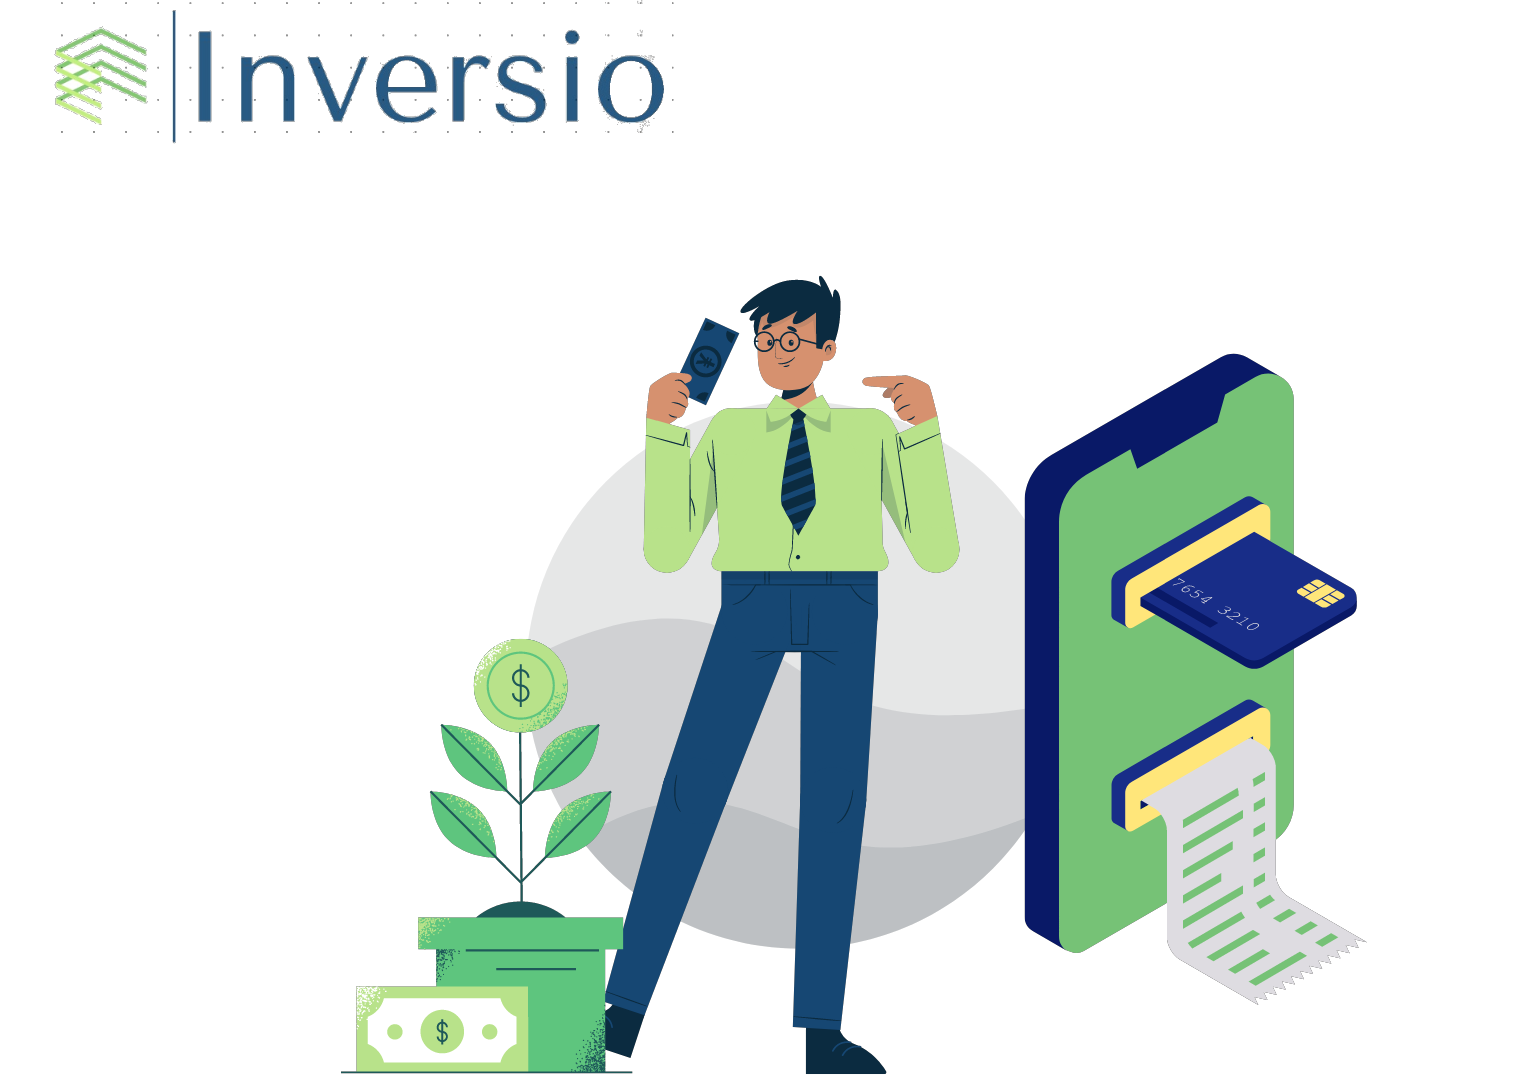
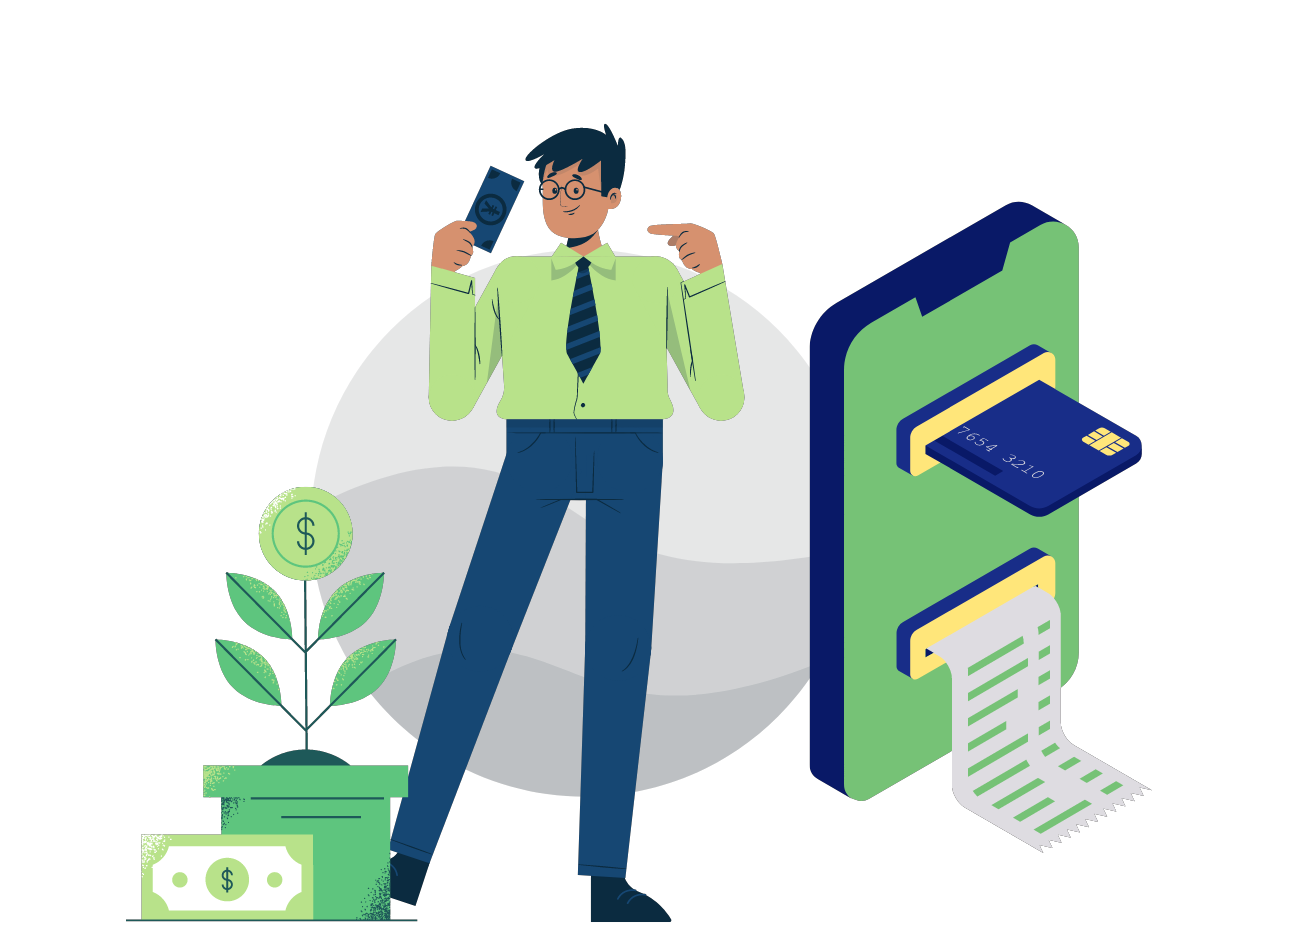
Correccion validacion

diff --git a/menuprincipal.html b/menuprincipal.html
@@ -90,7 +90,7 @@
                 <p>Dinero disponible:</p>
                 <div class="dinero">
                     <script src="https://cdnjs.cloudflare.com/ajax/libs/jquery/3.3.1/jquery.min.js"></script>
-                    <input id=elpassword type=password class="dineroVer" value=$00000000 placeholder=password />
+                    <input id=elpassword type=password class="dineroVer" value=$00000000 placeholder=password readonly/>
                     <svg id=clickme width=28 height=25 xmlns="http://www.w3.org/2000/svg" viewBox="0 0 576 512"><path d="M569.354 231.631C512.97 135.949 407.81 72 288 72 168.14 72 63.004 135.994 6.646 231.631a47.999 47.999 0 0 0 0 48.739C63.031 376.051 168.19 440 288 440c119.86 0 224.996-63.994 281.354-159.631a47.997 47.997 0 0 0 0-48.738zM288 392c-102.556 0-192.091-54.701-240-136 44.157-74.933 123.677-127.27 216.162-135.007C273.958 131.078 280 144.83 280 160c0 30.928-25.072 56-56 56s-56-25.072-56-56l.001-.042C157.794 179.043 152 200.844 152 224c0 75.111 60.889 136 136 136s136-60.889 136-136c0-31.031-10.4-59.629-27.895-82.515C451.704 164.638 498.009 205.106 528 256c-47.908 81.299-137.444 136-240 136z"/></svg>
 
                 </div>

diff --git a/assets/css/olvidocontrasena.css b/assets/css/olvidocontrasena.css
@@ -236,7 +236,7 @@ a:hover {
         justify-content: center;
     }
     #logoPrincipal {
-        display:flex;
+        display: inline;
         width: 12em;
     }
     #inversioLogo {
@@ -245,6 +245,6 @@ a:hover {
         margin: 1em 1em 1em 2em;
         color: white;
         display: inline-block;
-        margin-left: 50%;
+        margin-left: 18%;
     }
 }

diff --git a/assets/css/iniciarSesion.css b/assets/css/iniciarSesion.css
@@ -44,7 +44,7 @@ body {
 }
 
 .img img {
-    width: 650px;
+    width: 560px;
 }
 
 form {

diff --git a/olvidoContrasena.php b/olvidoContrasena.php
@@ -43,8 +43,8 @@ if (!empty($_POST['usuario']) && !empty($_POST['pass'])) {
 
 <body>
     <img class="wave" src="">
-    <div><a id="Regresarboton" href="iniciarSesion.php"><i class="fa fa-chevron-circle-left" style="font-size:48px" id="Regresar"></i></a>
-        <!-- <a id="inversioLogo" href="index.html"><img src="assets/img/logoPrincipalBlanco.png" id="logoPrincipal"></a></div> -->
+        <a id="Regresarboton" href="iniciarSesion.php"><i class="fa fa-chevron-circle-left" style="font-size:48px" id="Regresar"></i></a>
+        <a id="inversioLogo" href="index.html"><img src="assets/img/logoPrincipal.jpeg" id="logoPrincipal"></a>
         <div class="container">
             <div class="login-content">
                 <form action="olvidoContrasena.php" method="POST">
